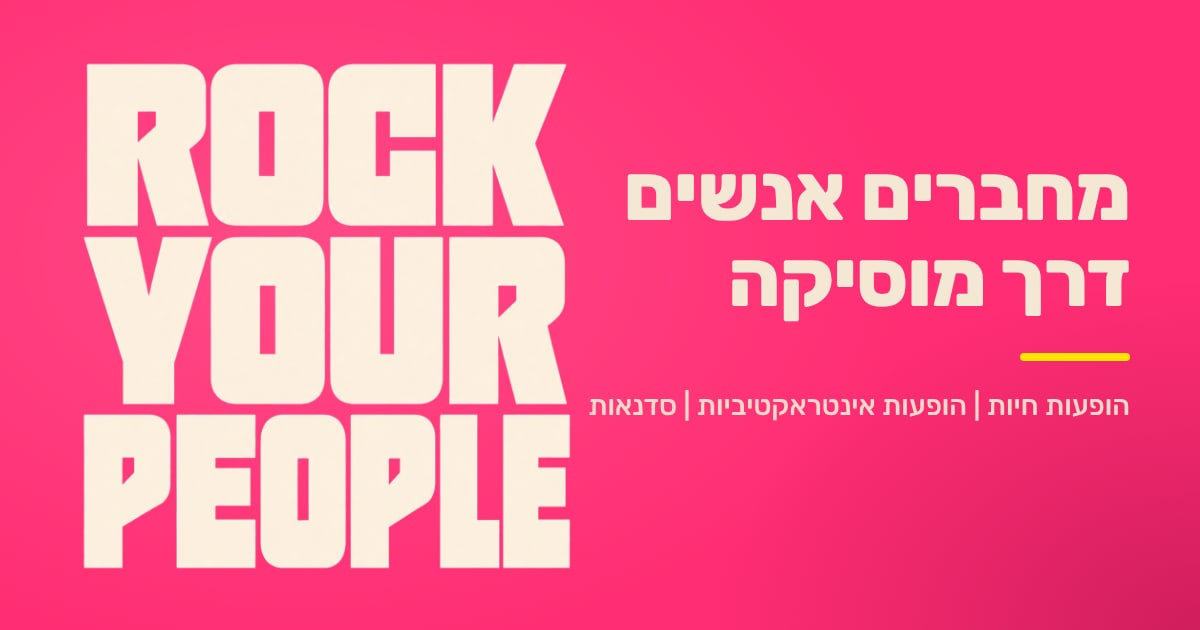
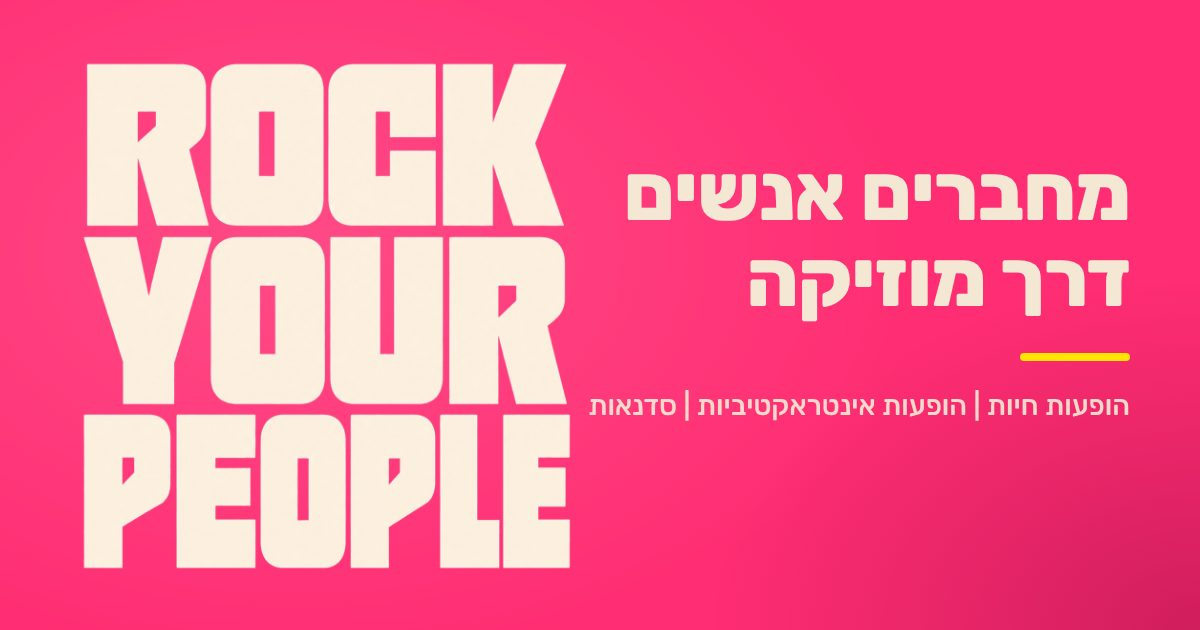
Regenerate default OG image and SEO alt text with unified spelling מוזיקה
Claude-Session: https://claude.ai/code/session_017kuXAXkRqCKyHUd4ZxqY6d

Changed region(s): [[0.5858, 0.3921, 0.7708, 0.5127]]

diff --git a/lib/seo.ts b/lib/seo.ts
@@ -7,7 +7,7 @@ export const OG_IMAGE = {
   url: "/og/og-default.jpg",
   width: 1200,
   height: 630,
-  alt: "Rock Your People - מחברים אנשים דרך מוסיקה",
+  alt: "Rock Your People - מחברים אנשים דרך מוזיקה",
 };
 export const OPEN_GRAPH_BASE: OpenGraph = {
   type: "website",

diff --git a/changelog/perf-seo.md b/changelog/perf-seo.md
@@ -10,7 +10,7 @@
 - קבצי band-in-a-day, workshop, band-transparent ו-rock-your-people-title-transparent לא נמחקו, כי דפי הנחיתה שנבנים במקביל עשויים להשתמש בהם. הם רק נדחסו.
 - שפת המסמך: הוגדר lang="he" באלמנט html בקובץ app/layout.tsx.
 - מטא-דאטה: נוספו metadataBase (ממשתנה הסביבה NEXT_PUBLIC_SITE_URL), תבנית כותרת, תיאור, openGraph, twitter וצבע ערכת נושא (viewport). כתובת canonical ו-og:url מוגדרות רק בדף הבית (app/page.tsx), כדי שדפים אחרים לא יצביעו בטעות על הבית. הכותרת של דף הפרטיות קוצרה כדי שהתבנית לא תכפיל את שם האתר.
-- תמונת שיתוף: הקובץ public/og/og-default.jpg בגודל 1200 על 630 (כ-48KB) עם הסלוגן "מחברים אנשים דרך מוסיקה".
+- תמונת שיתוף: הקובץ public/og/og-default.jpg בגודל 1200 על 630 (כ-48KB) עם הסלוגן "מחברים אנשים דרך מוזיקה".
 - נוספו app/sitemap.ts, app/robots.ts (חסימת api), הקובץ lib/seo.ts והרכיב components/JsonLd.tsx (PerformingGroup עם Instagram ואיש קשר בוואטסאפ, רק עובדות מהקוד).
 - ביצועים: הוסרה העדפת priority מתמונת הגלריה הראשונה (היא מתחת לקפל), וסרטוני הגלריה עברו ל-preload="none" כדי שלא יורדו לפני הפעלה וכדי שה-poster יוצג.
 - lint: תוקנו שגיאות ב-ExperienceCarousel (ref בזמן רינדור ו-setState סינכרוני ב-effect), ב-MobileMenu (שימוש ב-useSyncExternalStore במקום setState ב-effect), הוסר DetailContent שלא בשימוש, והוספה הערת השבתה ל-tests/fixtures.ts עבור הפונקציה use של Playwright.
